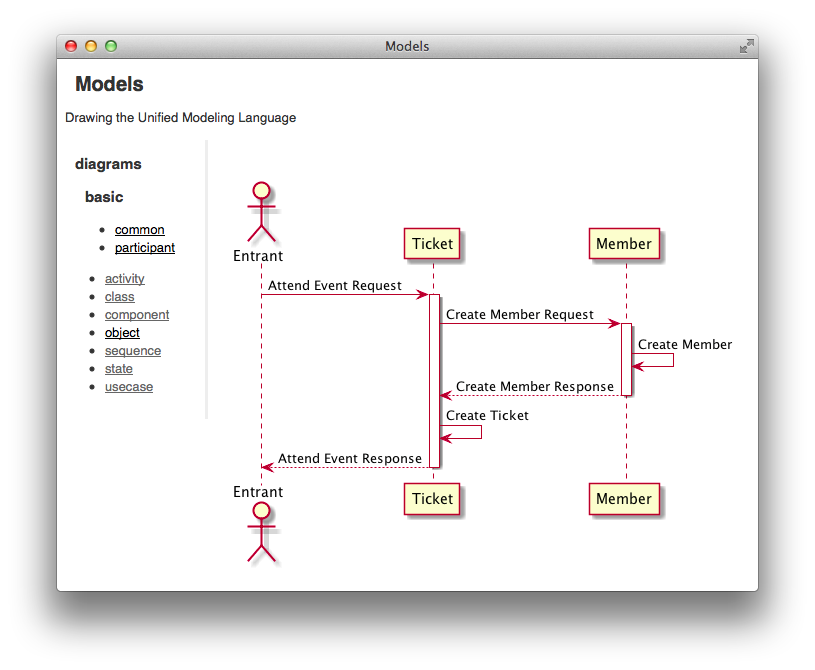
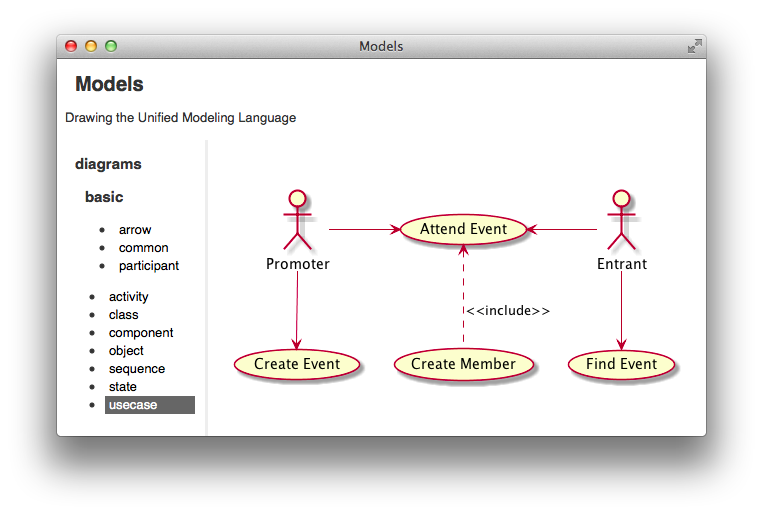
Added 0.1.2 posts

Changed region(s): [[0.0603, 0.0311, 0.9646, 0.9631]]

diff --git a/plantuml/index.md b/plantuml/index.md
@@ -4,12 +4,13 @@ title:  PlantUML
 ---
 
 [PlantUML](http://plantuml.sourceforge.net/) is a component that allows to quickly write.
+This is cheat sheet of PlantUML to use frequently.
 
 # Basic
 
 ## Common
 
-Use common.
+Notes and Comments.
 
 | keyword        | usage               | image
 |:--------------:|:-------------------:|
@@ -43,7 +44,7 @@ note right : Note
 
 ## Participant
 
-Use participant.
+Participant actors.
 
 | keyword    | usage    | image
 |:----------:|:--------:|
@@ -69,6 +70,32 @@ database Database
 
 ![basic_participant]({{ site.baseurl }}/assets/img/diagrams/basic/participant.png)
 
+
+## Arrow
+
+Arrow direction.
+
+| keyword    | usage   | image
+|:----------:|:-------:|
+| `-up->`    | Up      | ![parts_usecase]({{ site.baseurl }}/assets/img/diagrams/parts/up_line.png)
+| `-down->`  | Down    | ![parts_usecase]({{ site.baseurl }}/assets/img/diagrams/parts/down_line.png)
+| `-left->`  | Left    | ![parts_usecase]({{ site.baseurl }}/assets/img/diagrams/parts/left_line.png)
+| `-right->` | Right   | ![parts_usecase]({{ site.baseurl }}/assets/img/diagrams/parts/right_line.png)
+
+### Code
+
+```
+up -up-> right
+-right-> down
+-down-> left
+-left-> up
+```
+
+### Draw
+
+![basic_participant]({{ site.baseurl }}/assets/img/diagrams/basic/arrow.png)
+
+
 # UML
 
 ## Use Case
@@ -89,14 +116,12 @@ Represent the required functions.
 actor Promoter
 actor Entrant
 
-Promoter -> (Create Group)
-Promoter -> (Create Event)
-(Create Group) .> (Create Event) : <<extend>>
+Promoter --> (Create Event)
+Promoter -> (Attend Event)
 
-Promoter --> (Attend Event)
-
-(Find Event) <- Entrant
+Entrant --> (Find Event)
 (Attend Event) <- Entrant
+
 (Attend Event) <.. (Create Member)  : <<include>>
 ```
 
@@ -147,12 +172,10 @@ endif
 
 Represent the state of the objects.
 
-| keyword    | usage | image
-|:----------:|:-----:|
-| `-up->`    | Up    | ![parts_usecase]({{ site.baseurl }}/assets/img/diagrams/parts/up_line.png)
-| `-down->`  | Down  | ![parts_usecase]({{ site.baseurl }}/assets/img/diagrams/parts/down_line.png)
-| `-left->`  | Left  | ![parts_usecase]({{ site.baseurl }}/assets/img/diagrams/parts/left_line.png)
-| `-right->` | Right | ![parts_usecase]({{ site.baseurl }}/assets/img/diagrams/parts/right_line.png)
+| keyword    | usage   | image
+|:----------:|:-------:|
+|  `[*] ->`  | Initial | ![parts_usecase]({{ site.baseurl }}/assets/img/diagrams/parts/initial_line.png)
+|  `-> [*]`  | Final   | ![parts_usecase]({{ site.baseurl }}/assets/img/diagrams/parts/final_line.png)
 
 * [others](http://plantuml.sourceforge.net/state.html)
 

diff --git a/_posts/2014-09-21-0.1.2.md b/_posts/2014-09-21-0.1.2.md
@@ -1,0 +1,6 @@
+---
+layout: post
+title:  0.1.2
+---
+
+* Fixed styles
